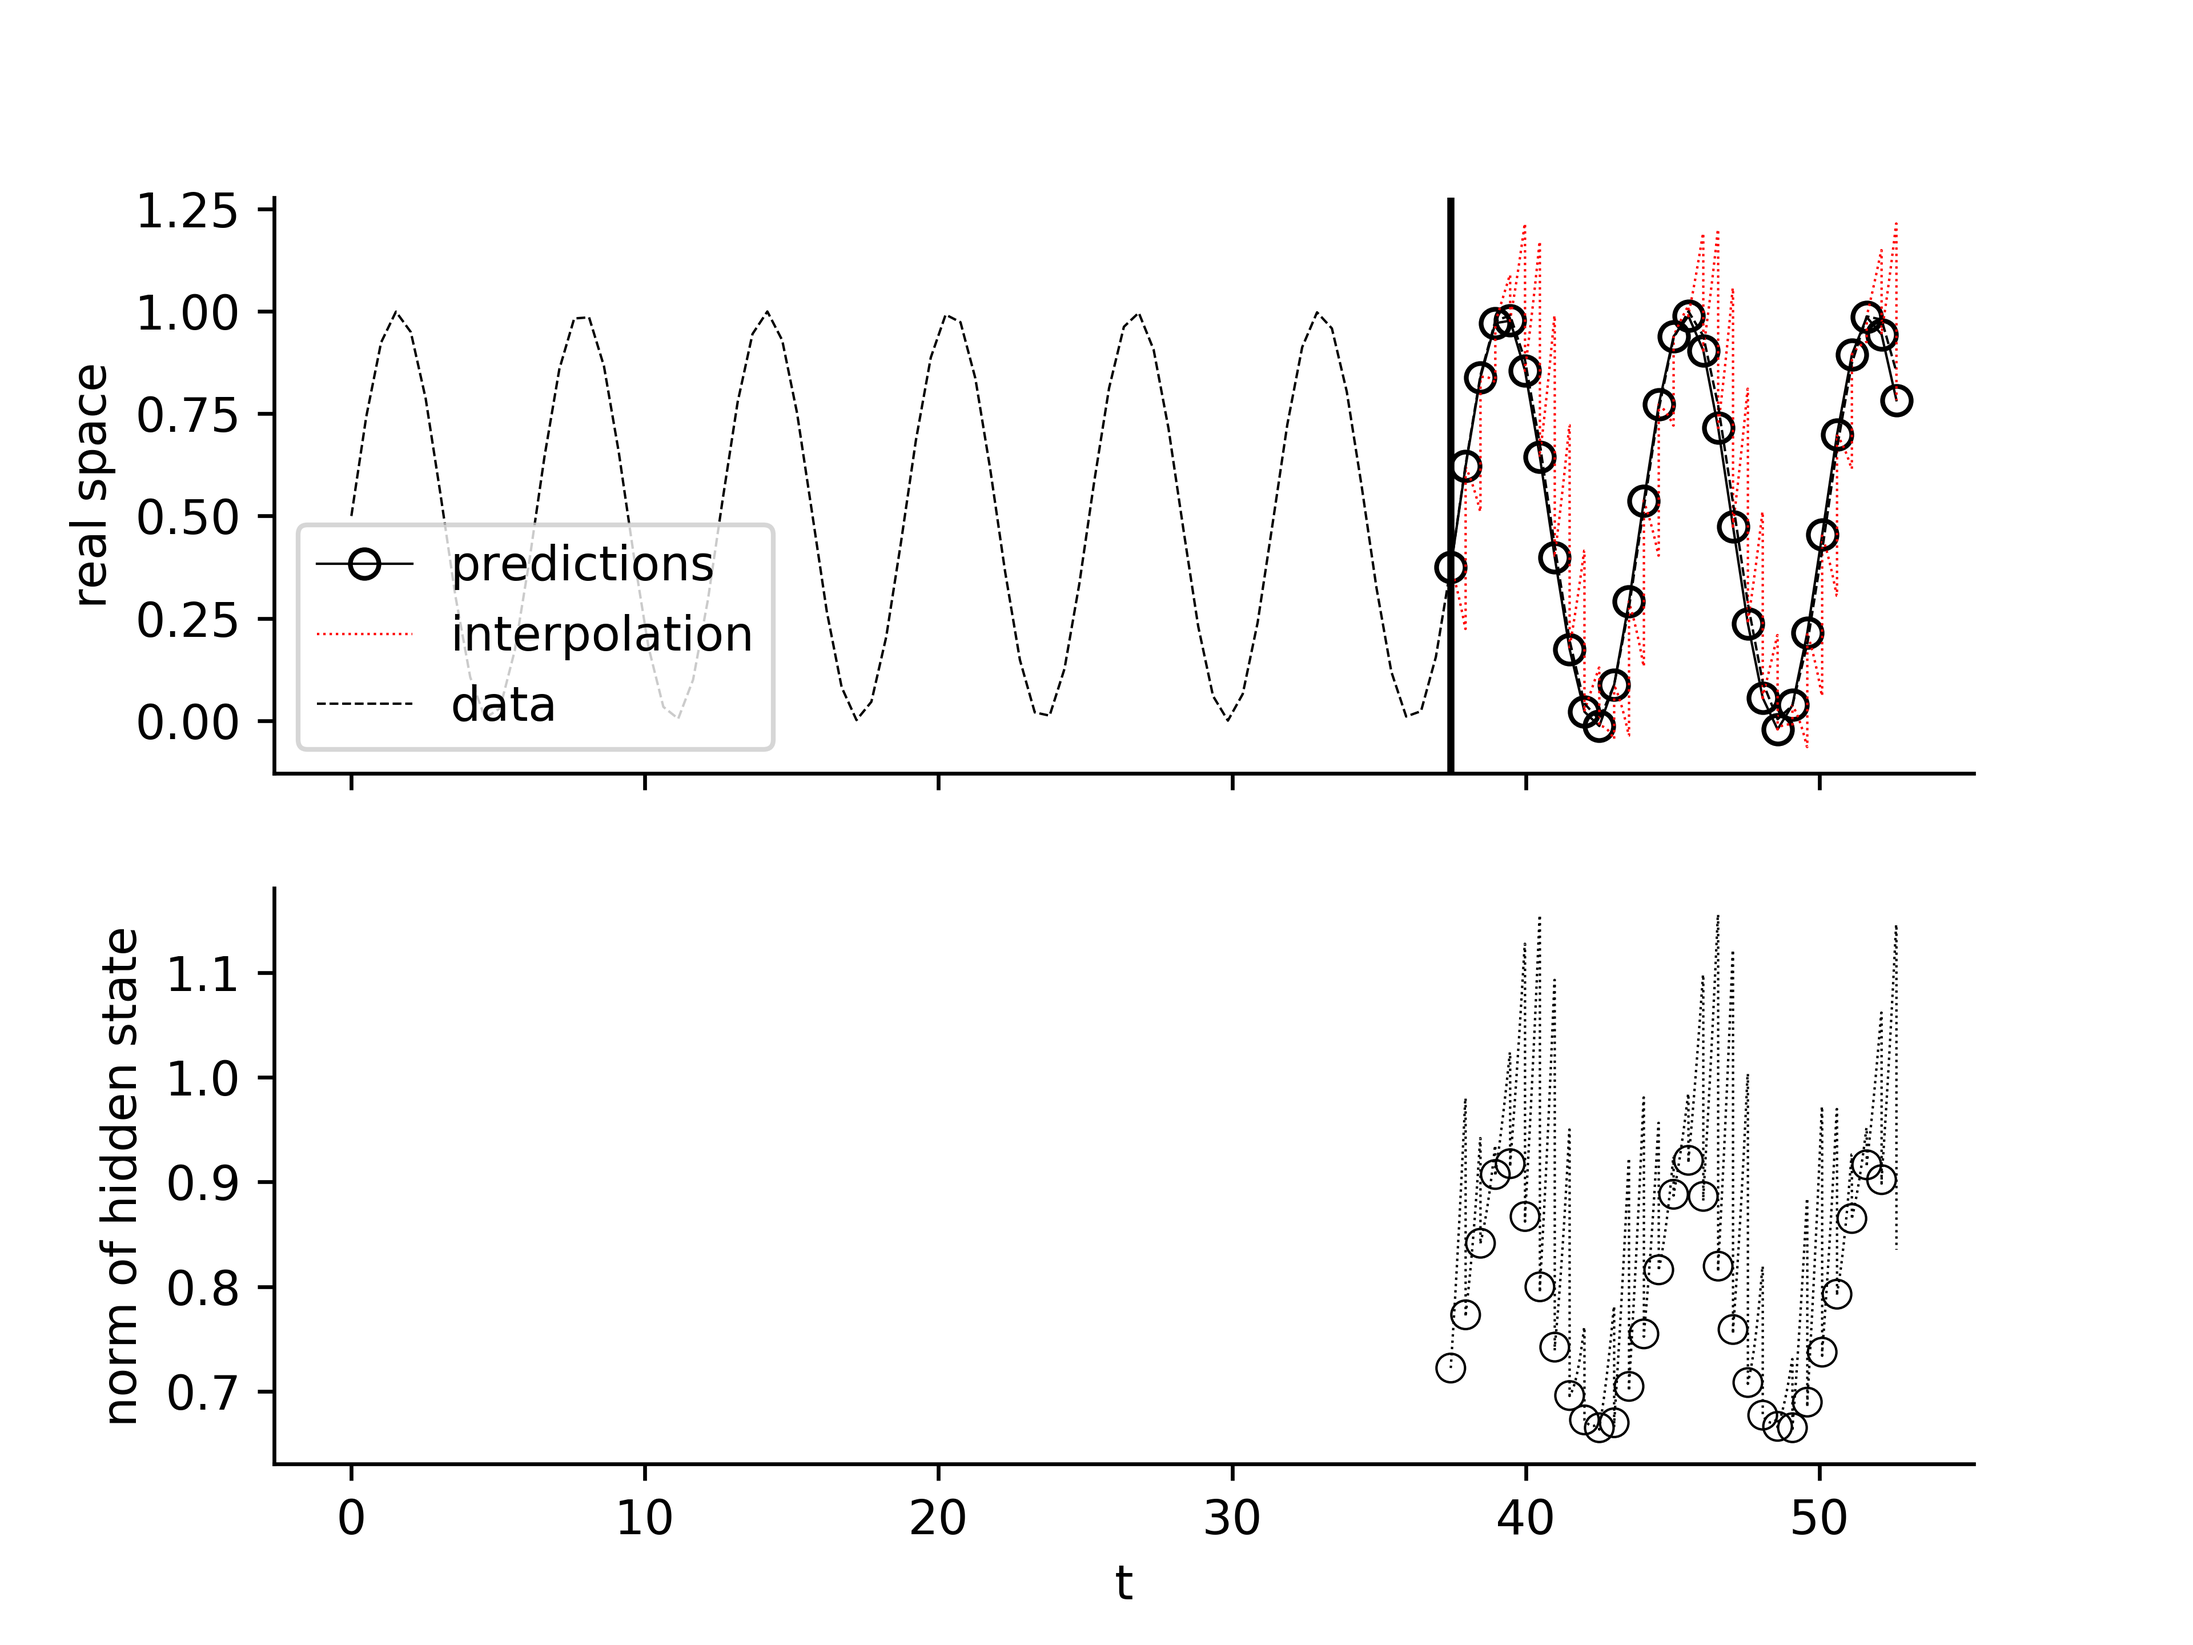
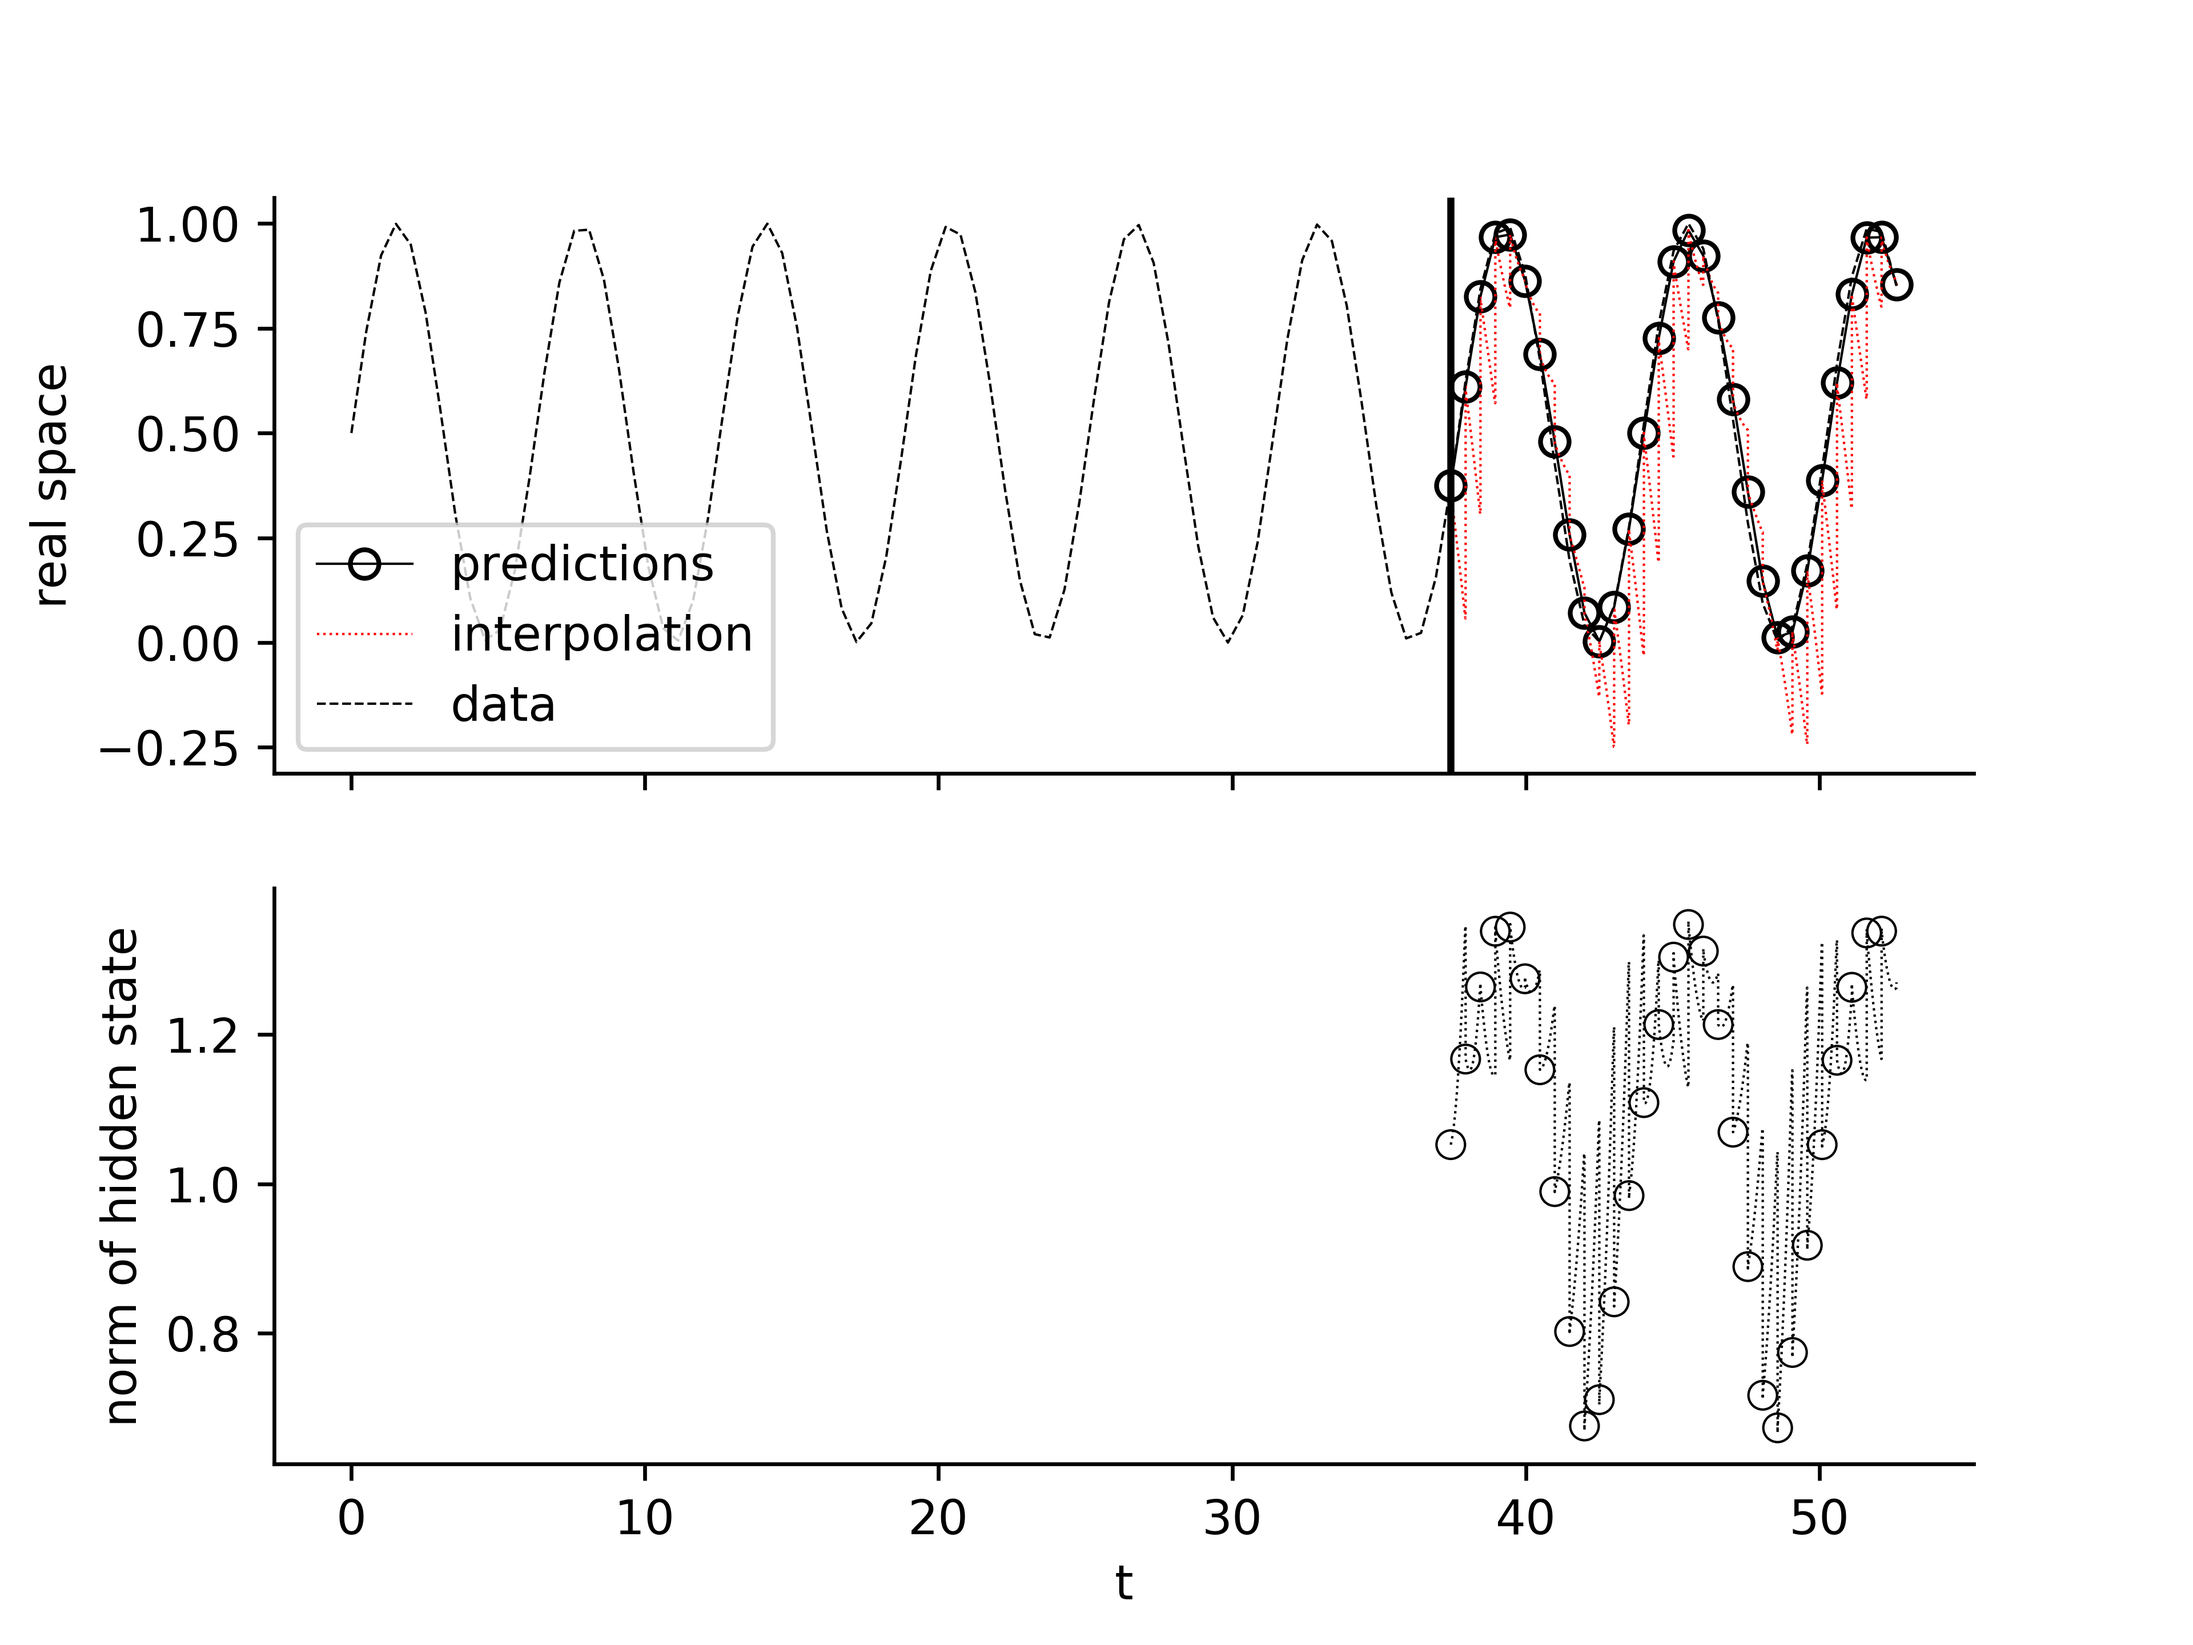
Added Evaluation Loss

diff --git a/train.py b/train.py
@@ -5,26 +5,46 @@ def train(examples, model, epochs):
     
     optimizer = torch.optim.Adam(model.parameters(), lr=0.01)
     loss_function = torch.nn.MSELoss()
-    loss_history = []
+
+    training_loss_history = []
+    validation_loss_history = []
+
+    # Split data into training and validation
+    example_data_length = len(examples)
+    val_split_index = example_data_length - int(0.25 * example_data_length)
 
     for epoch in range(epochs):
 
-        epoch_loss = []
+        training_loss = []
+        validation_loss = []
+
         for i, (example, label) in enumerate(examples):
-            optimizer.zero_grad()
-            prediction = model(example)
-            #print("PREDICTION: ", prediction.size())
-            # print("LABEL: ", label)
-            loss = loss_function(prediction, label)
-            epoch_loss.append(loss)
-            loss.backward()
-            optimizer.step()
+
+            # Validation
+            if i > val_split_index:
+                with torch.no_grad():
+                    prediction = model(example)
+                    loss = loss_function(prediction, label)
+                    pass
+            else:
+                # Training
+                optimizer.zero_grad()
+                prediction = model(example)
+                #print("PREDICTION: ", prediction.size())
+                # print("LABEL: ", label)
+                loss = loss_function(prediction, label)
+                training_loss.append(loss)
+                loss.backward()
+                optimizer.step()
         
         print("EPOCH: ", epoch)
-        loss_history.append(sum(epoch_loss) / len(examples))
-        epoch_loss = []
+        training_loss_history.append(sum(training_loss) / val_split_index)
+        validation_loss_history.append(sum(validation_loss) / (example_data_length - val_split_index))
+        
+        training_loss = []
+        validation_loss = []
 
-    return loss_history
+    return training_loss_history, validation_loss_history
 
 def test(seq, t, length, model):
 

diff --git a/fig5.py b/fig5.py
@@ -35,25 +35,25 @@ import numpy as np
 pi = 3.14159265359
 
 # DEVICE PARAMS for convenience.
-device_params = {"Vdd": 0.2,
+device_params = {"Vdd": 1.8,
                  "r_wl": 20,
                  "r_bl": 20,
                  "m": 32,
                  "n": 32,
-                 "r_on_mean": 1e4,
-                 "r_on_stddev": 1e3,
-                 "r_off_mean": 1e5,
-                 "r_off_stddev": 1e4,
+                 "r_on": 1e4,
+                 "r_off": 1e5,
                  "dac_resolution": 4,
                  "adc_resolution": 14,
-                 "device_resolution": 4,
                  "bias_scheme": 1/3,
                  "tile_rows": 8,
                  "tile_cols": 8,
                  "r_cmos_line": 600,
-                 "r_cmos_transistor": 20,
-                 "p_stuck_on": 0.001,
-                 "p_stuck_off": 0.001,}
+                 "r_cmos_transistor": 20, 
+                 "p_stuck_on": 0.01,
+                 "p_stuck_off": 0.01,
+                 "method": "viability",
+                 "viability": 0.2,
+}
 
 # MAKE DATA
 n_pts = 150
@@ -85,7 +85,7 @@ for i in range(1):
 
     model = ODE_RNN(1, 4, 1, device_params, time_steps)
     # torch.save(model.state_dict(), "output/models/model.pt")
-    losses = train.train(train_data, model, epochs)
+    losses, val_losses = train.train(train_data, model, epochs)
     model.node_rnn.observe(True)
     # model.use_cb(True)
 
@@ -135,6 +135,11 @@ for i in range(1):
              losses,
              linewidth=0.5, marker = 's',
              color='black')
+
+    ax3.plot(list(range(epochs)),
+            val_losses,
+            linewidth=0.5, marker = 's',
+            color='red')
 
     unmapped_weights = torch.cat(
         [tensor.reshape(-1).detach() for tensor in model.cb.tensors], axis=0)

diff --git a/utils/linear.py b/utils/linear.py
@@ -1,5 +1,5 @@
 import torch
-from .crossbar import crossbar
+from crossbar import crossbar
 
 class linear(torch.autograd.Function):
     @staticmethod
